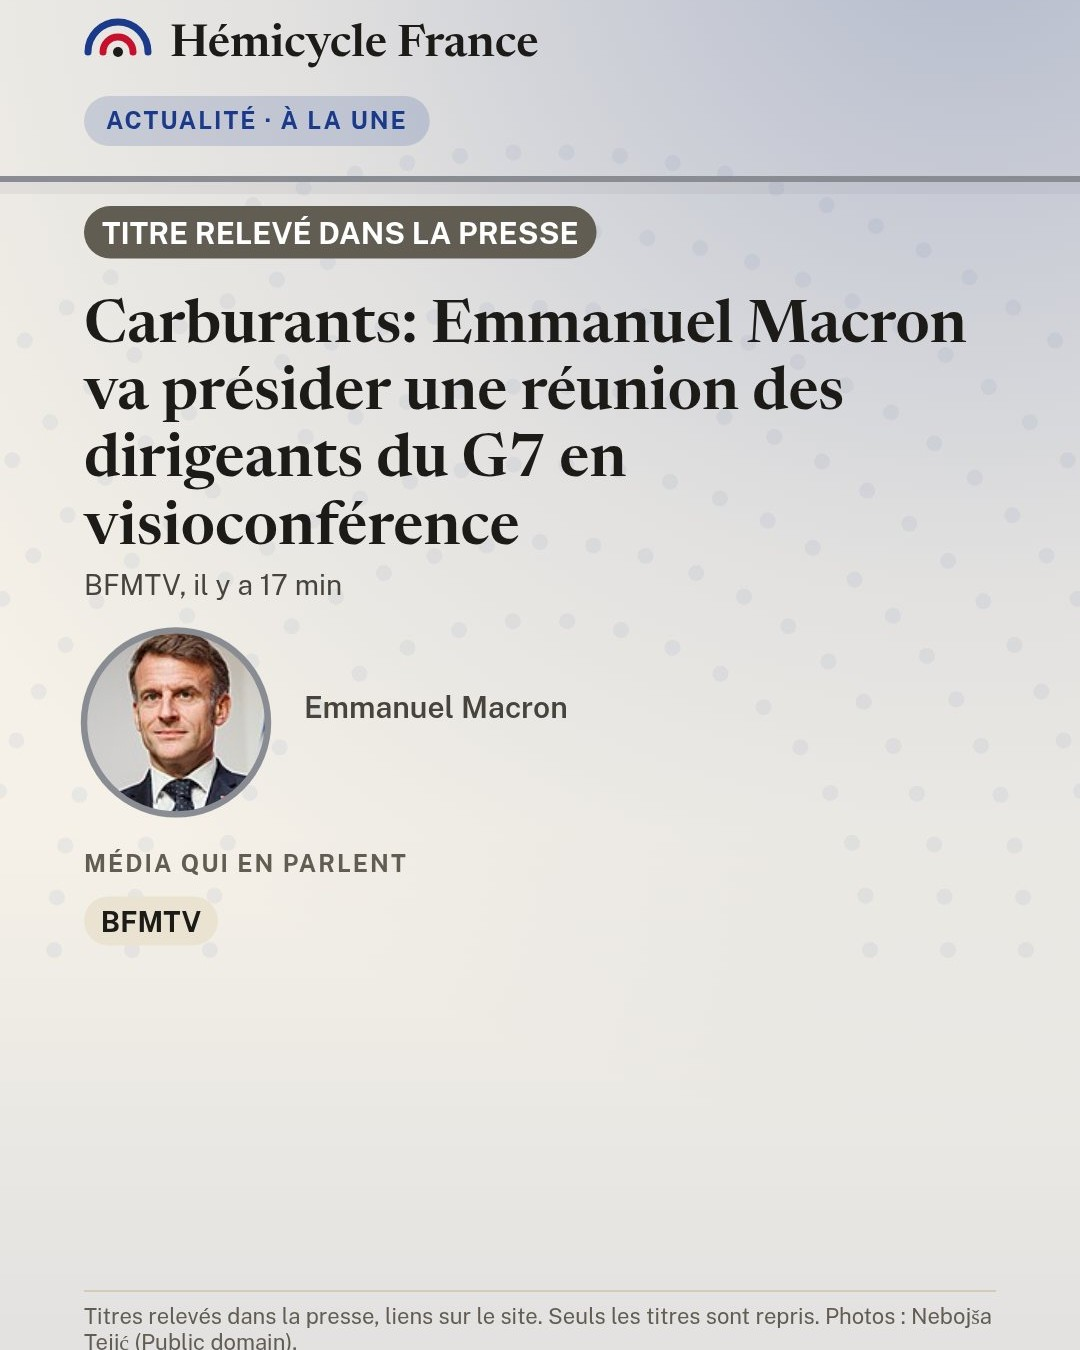
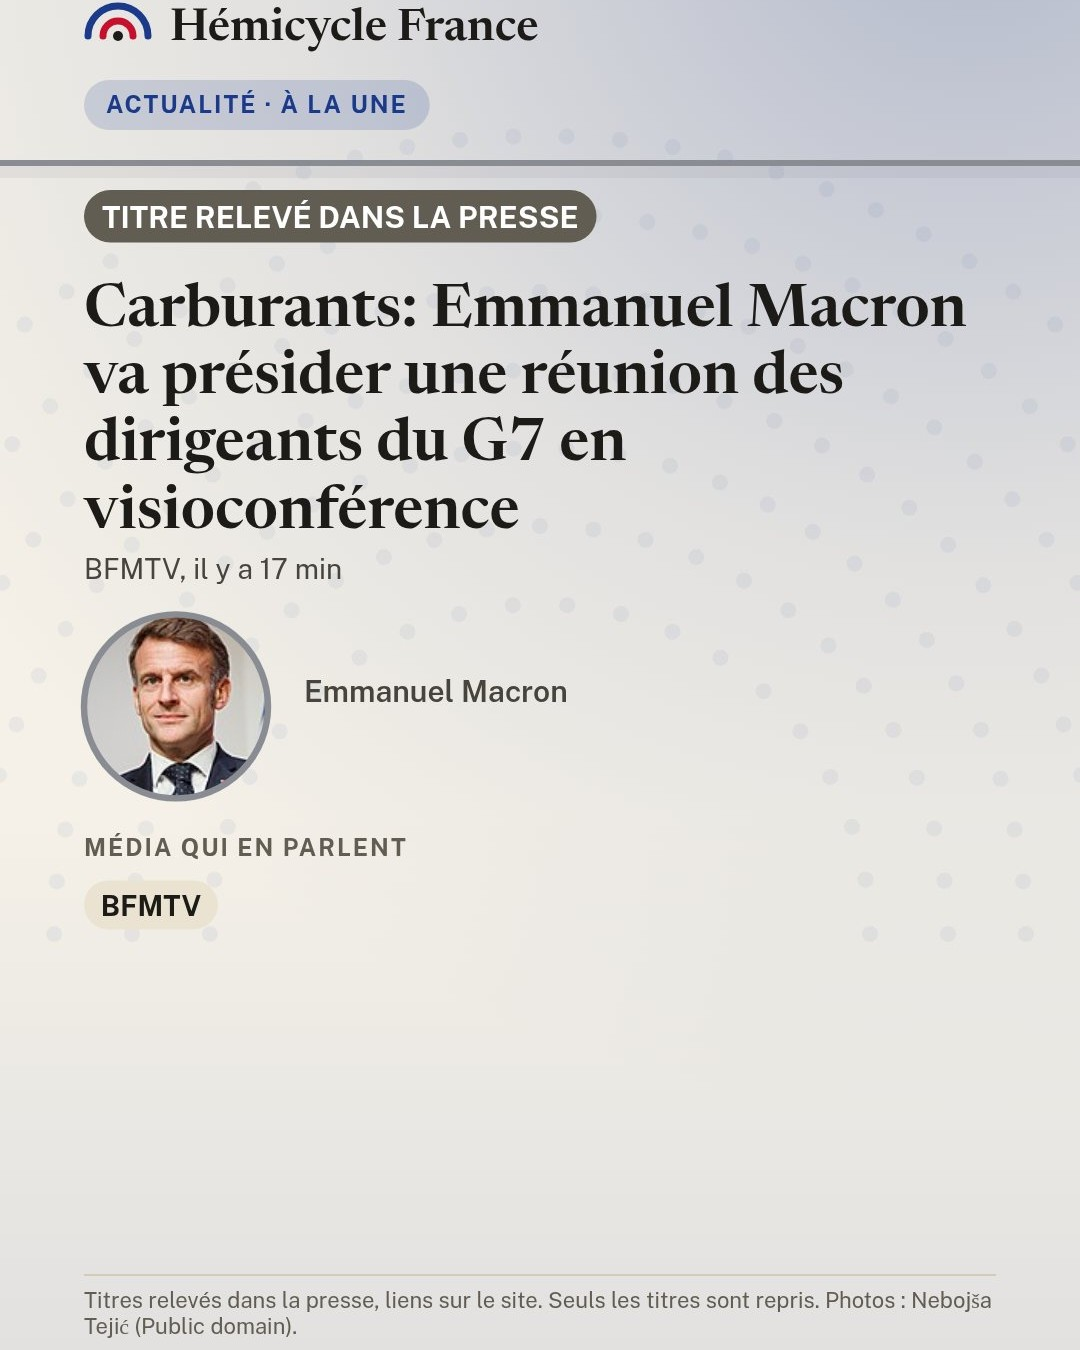
Instagram : visuel du post recadré (#62)
* Stories : 11 nouveaux types (actualités, probabilités, second tour, décompte, candidat, parti, justice, chiffre clé, groupe, meeting)

* Stories : fonds teintés, grands chiffres colorés, cartes arrondies, médaillons et hémicycle en points

* Boutons Story et Partager sur actualités, sondages, candidats, partis, groupes, justice, économie et agenda, avec test de fumée

* Groupes : indicateur de cohésion de vote et comparateur de deux groupes

Calculés côté page à partir de data/lois.json (positions majoritaires par scrutin), avec test de fumée.

* Page Méthode : sources, dates d'actualisation lues dans data/*.json, limites, neutralité ; test de fumée

* Fiches d'élus : section Activité, bloc des rencontres avec des représentants d'intérêts (HATVP) et son script de collecte

Le script n'écrit rien tant que la source ne désigne pas les élus par identifiant officiel.
Testé sur un jeu d'essai, la source réelle n'étant pas joignable depuis l'environnement de développement.

* Bloc « En bref », parcours des députés, archives hebdomadaires

- accueil : cinq faits calculés depuis les données déjà publiées
- fiche député : section « Parcours » (mandat, groupe, commission)
- scripts/archiver.js : instantané hebdomadaire des sondages, probabilités et actualités (52 semaines), branché dans update-data.yml
- rubrique « Archives » avec graphique d'évolution
- contrôles dans check-data.js et test de fumée
[…]

Changed region(s): [[0.0, 0.0, 1.0, 0.7156], [0.0611, 0.9333, 0.9167, 1.0], [0.275, 0.4978, 0.5194, 0.5289]]

diff --git a/index.html b/index.html
@@ -1680,7 +1680,7 @@
         <li><b>Votes, dossiers législatifs, groupes politiques :</b> Assemblée nationale, <a href="https://data.assemblee-nationale.fr" target="_blank" rel="noopener">data.assemblee-nationale.fr</a>, sous <a href="https://www.etalab.gouv.fr/licence-ouverte-open-licence/" target="_blank" rel="noopener">Licence Ouverte 2.0 (Etalab)</a>. Données relevées toutes les heures ; la date de la dernière mise à jour figure en bas de chaque page.</li>
         <li><b>Indicateurs économiques :</b> Insee, Banque de données macroéconomiques. Chaque chiffre renvoie à sa série d'origine sur insee.fr.</li>
         <li><b>Budget, déficit et dette :</b> comptes des administrations publiques de la France (établis par l'Insee) tels que notifiés à <a href="https://ec.europa.eu/eurostat/databrowser/view/gov_10a_exp/default/table?lang=fr" target="_blank" rel="noopener">Eurostat</a> (tableaux gov_10a_exp, gov_10a_main et gov_10dd_edpt1, API publique), réutilisables sous licence ouverte (<a href="https://commission.europa.eu/legal-notice/reuse-commission-documents_fr" target="_blank" rel="noopener">politique de réutilisation de la Commission européenne</a>, source citée). Chaque bloc de la rubrique « Budget » indique sa source et son année.</li>
-        <li><b>Actualités :</b> titres, dates et liens relus toutes les heures dans les flux RSS publics de la rubrique politique de médias d'information reconnus (la liste à jour, avec ceux qui ont répondu, figure sur la page Actualités : franceinfo, Le Monde, Le Figaro, Libération, 20 Minutes, Public Sénat, BFMTV, France 24, RFI, L'Express, Le Parisien, Mediapart, Euronews). Seul le titre est repris ; le contenu reste celui du média, à lire sur son site.</li>
+        <li><b>Actualités :</b> titres, dates et liens relus toutes les heures dans les flux RSS publics de la rubrique politique de médias d'information reconnus (la liste à jour, avec ceux qui ont répondu, figure sur la page Actualités : franceinfo, Le Monde, Le Figaro, Libération, 20 Minutes, Public Sénat, BFMTV, France 24, RFI, L'Express, Le Parisien, Mediapart). Seul le titre est repris ; le contenu reste celui du média, à lire sur son site.</li>
         <li><b>Bandeau « En direct » :</b> affiché seulement quand un événement est détecté, jamais autrement. Un traitement automatique repère, dans les titres déjà relevés des médias ci-dessus, l'annonce ou la tenue d'une prise de parole du président de la République (allocution, conférence de presse, discours, interview) publiée depuis moins de six heures ; il y ajoute, les jours de séance, la séance publique de l'Assemblée nationale d'après son agenda officiel (sans les heures : le bandeau dit « aujourd'hui », pas « en cours »). Le bandeau cite le titre du média et renvoie à son article. Les chaînes proposées sont de simples liens vers leurs pages officielles de direct : <a href="https://www.francetvinfo.fr/en-direct/" target="_blank" rel="noopener">franceinfo</a>, <a href="https://www.bfmtv.com/en-direct/" target="_blank" rel="noopener">BFMTV</a>, <a href="https://www.tf1info.fr/direct/" target="_blank" rel="noopener">LCI</a>, <a href="https://www.publicsenat.fr/direct" target="_blank" rel="noopener">Public Sénat</a>, <a href="https://www.france24.com/fr/direct" target="_blank" rel="noopener">France 24</a> et le <a href="https://videos.assemblee-nationale.fr/" target="_blank" rel="noopener">direct officiel de l'Assemblée nationale</a>. Aucune vidéo n'est intégrée au site. Le Sénat n'est pas couvert faute de données de séance relevées.</li>
         <li><b>Sondages :</b> résultats relevés sur la <a href="https://fr.wikipedia.org/wiki/Liste_de_sondages_sur_l%27%C3%A9lection_pr%C3%A9sidentielle_fran%C3%A7aise_de_2027" target="_blank" rel="noopener">liste Wikipédia des sondages</a> (licence CC BY-SA 4.0), chacun renvoyant à la notice officielle déposée par l'institut auprès de la Commission des sondages.</li>
         <li><b>Votes du Sénat :</b> pages officielles des scrutins publics (<a href="https://www.senat.fr/scrutin-public/" target="_blank" rel="noopener">senat.fr</a>), relues toutes les heures ; le vote de chaque groupe est recoupé avec le total officiel.</li>

diff --git a/scripts/fetch-actualites.js b/scripts/fetch-actualites.js
@@ -51,7 +51,6 @@ const MEDIAS = [
   { id: "ledauphine", nom: "Le Dauphiné libéré", flux: "https://www.ledauphine.com/politique/rss", domaine: "ledauphine.com" },
   { id: "estrepublicain", nom: "L'Est républicain", flux: "https://www.estrepublicain.fr/politique/rss", domaine: "estrepublicain.fr" },
   { id: "nicematin", nom: "Nice-Matin", flux: "https://www.nicematin.com/politique/rss", domaine: "nicematin.com" },
-  { id: "euronews", nom: "Euronews", flux: "https://fr.euronews.com/rss?level=theme&name=news", domaine: "fr.euronews.com" },
 ];
 
 const log = (...m) => console.log("[fetch-actualites]", ...m);
